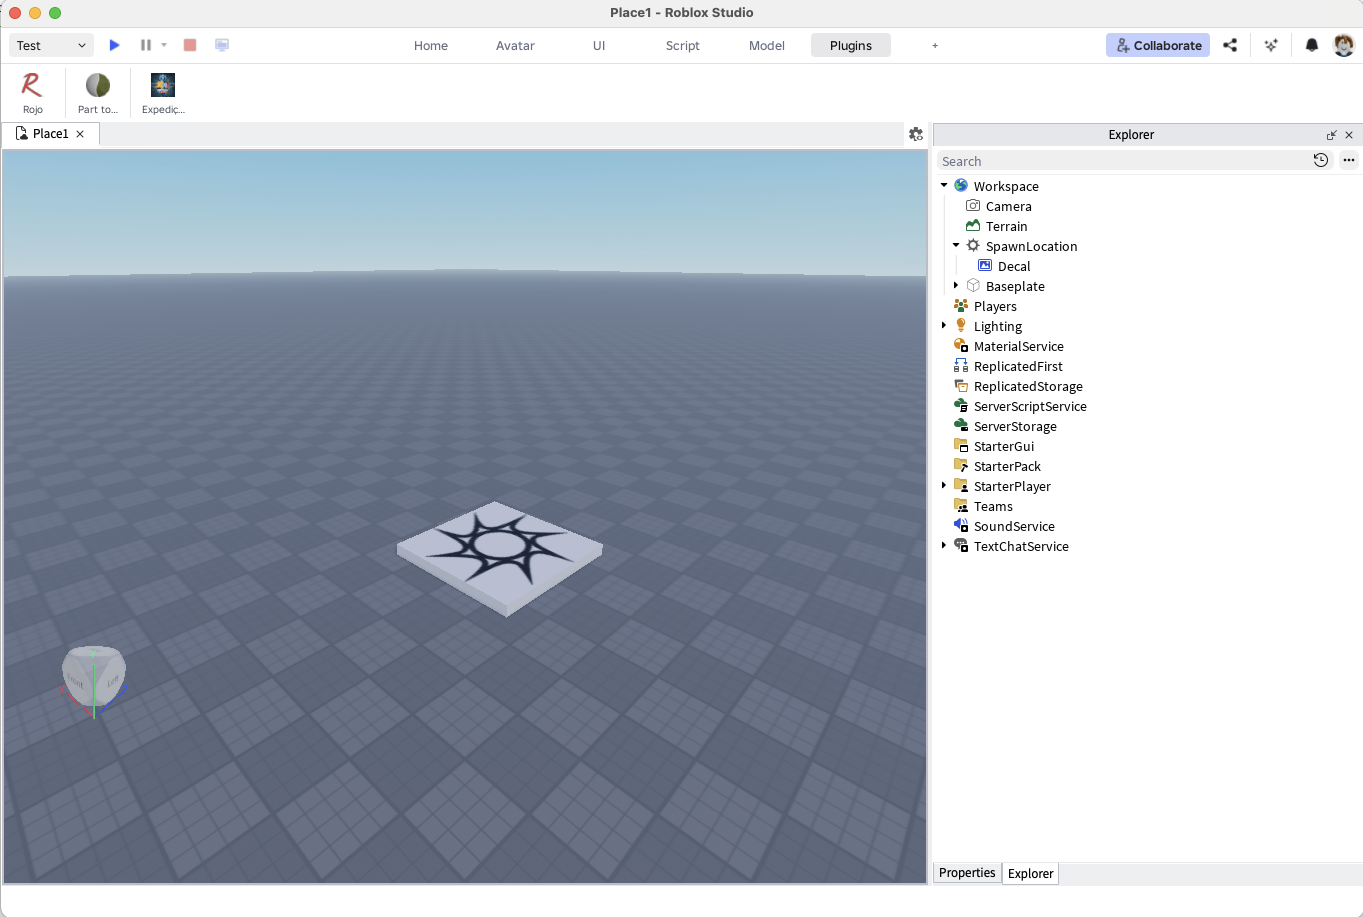
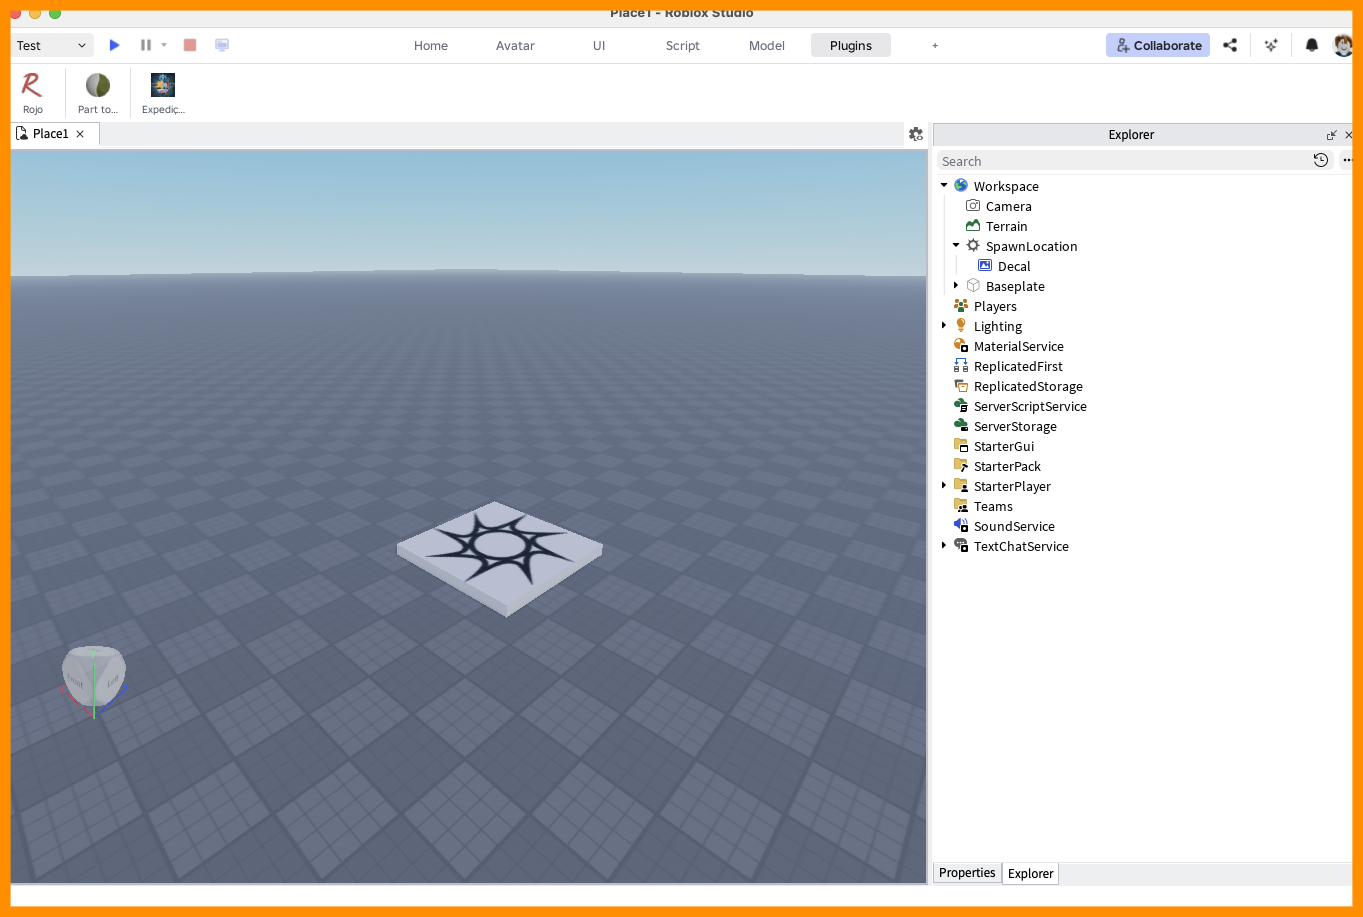
Update onboarding assets and click sound

Changed region(s): [[0.0, 0.0, 1.0, 1.0]]

diff --git a/src/components/cards/WhiteCardCanvas01/OnboardingView.jsx b/src/components/cards/WhiteCardCanvas01/OnboardingView.jsx
@@ -1,9 +1,20 @@
-import React from 'react'
+import React, { useRef } from 'react'
 import './WhiteCardCanvas01.css'
 
 function OnboardingView({ slides, index, displayText, animationSeed, onPrev, onNext, onGoTo, onSkip, skipLabel = 'Pular' }) {
+  const beepRef = useRef(null)
   const activeSlide = slides[index]
   const isFinalSlide = index === slides.length - 1
+
+  const playBeep = () => {
+    if (!beepRef.current) {
+      beepRef.current = new Audio('/sound-fx/beep.wav')
+      beepRef.current.volume = 0.6
+    }
+    const audio = beepRef.current
+    audio.currentTime = 0
+    audio.play().catch(() => {})
+  }
 
   return (
     <section className="white-card-canvas-01 white-card-canvas-01--onboarding" aria-label="Onboarding">
@@ -20,7 +31,10 @@ function OnboardingView({ slides, index, displayText, animationSeed, onPrev, onN
               className={slideIndex === index ? 'white-card-canvas-01__dot is-active' : 'white-card-canvas-01__dot'}
               aria-label={`Ir para slide ${slideIndex + 1}`}
               aria-current={slideIndex === index ? 'true' : undefined}
-              onClick={() => onGoTo(slideIndex)}
+              onClick={() => {
+                playBeep()
+                onGoTo(slideIndex)
+              }}
             />
           ))}
         </nav>
@@ -63,7 +77,10 @@ function OnboardingView({ slides, index, displayText, animationSeed, onPrev, onN
               <button
                 type="button"
                 className="white-card-canvas-01__action white-card-canvas-01__action--ghost white-card-canvas-01__action--with-icon-left"
-                onClick={onPrev}
+                onClick={() => {
+                  playBeep()
+                  onPrev()
+                }}
                 aria-label="Voltar para o slide anterior"
                 disabled={index === 0}
               >
@@ -78,7 +95,10 @@ function OnboardingView({ slides, index, displayText, animationSeed, onPrev, onN
               <button
                 type="button"
                 className="white-card-canvas-01__action white-card-canvas-01__action--primary white-card-canvas-01__action--with-icon-right"
-                onClick={onNext}
+                onClick={() => {
+                  playBeep()
+                  onNext()
+                }}
                 aria-label="Avancar para o proximo slide"
               >
                 Avancar
@@ -93,7 +113,10 @@ function OnboardingView({ slides, index, displayText, animationSeed, onPrev, onN
             <button
               type="button"
               className="white-card-canvas-01__action white-card-canvas-01__action--link"
-              onClick={onSkip}
+              onClick={() => {
+                playBeep()
+                onSkip()
+              }}
               aria-label="Pular onboarding"
               disabled={skipLabel === 'Iniciar' && !isFinalSlide}
             >

diff --git a/src/components/cards/WhiteCardCanvas01/WhiteCardCanvas01.css b/src/components/cards/WhiteCardCanvas01/WhiteCardCanvas01.css
@@ -87,7 +87,7 @@
   height: 100%;
   min-height: 0;
   border-radius: 0;
-  background: linear-gradient(to top, #5babff 0%, #19003e 100%);
+  background: url("/UI/onboarding-bg.png") center / cover no-repeat;
   display: flex;
   flex-direction: column;
   align-items: center;
@@ -119,10 +119,10 @@
 }
 
 .white-card-canvas-01__dot.is-active {
-  background: #338cc2;
-  width: 20px;
-  height: 20px;
-  border: 2px solid #ffffff;
+  background: #ff9800;
+  width: 25px;
+  height: 25px;
+  border: 3px solid #ffffff;
 }
 
 .white-card-canvas-01__hero-message {
